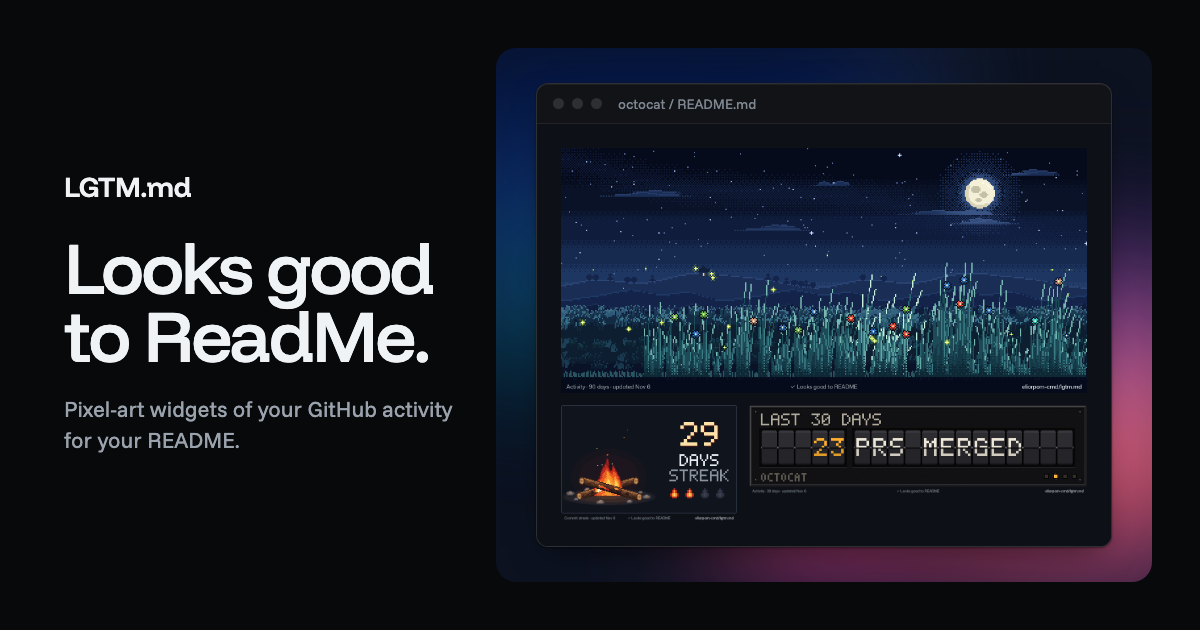
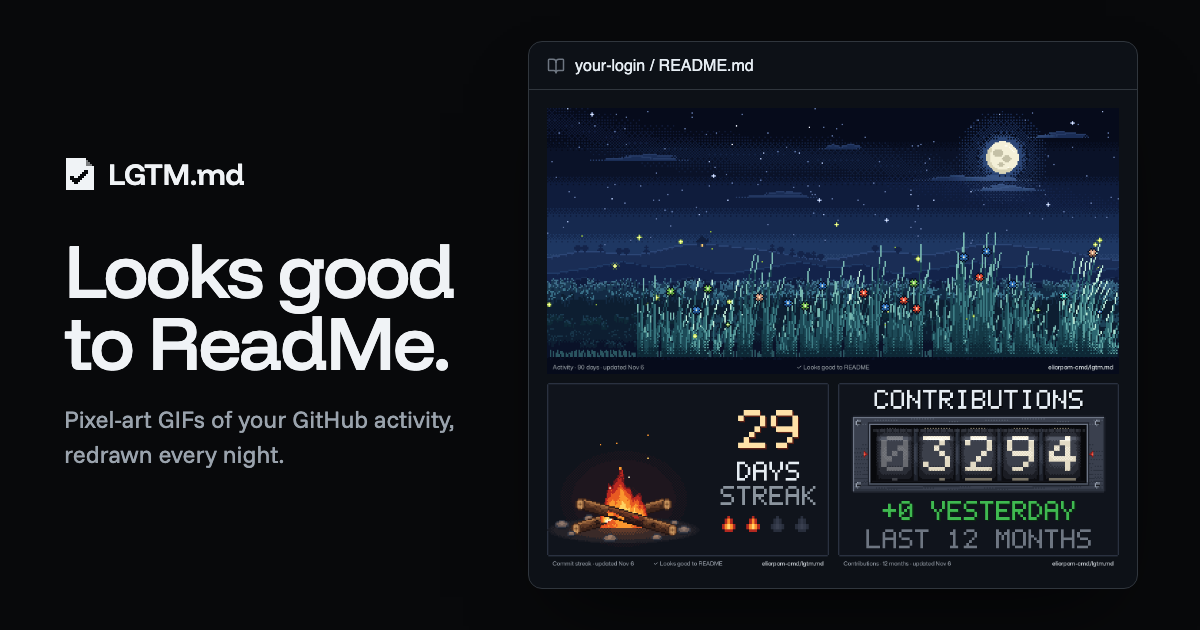
Launch page v7: mark on the success screen, new social image, Used by row from five profiles

Changed region(s): [[0.0308, 0.0603, 0.9867, 0.9349], [0.0308, 0.2413, 0.2158, 0.3317]]

diff --git a/site/index.html b/site/index.html
@@ -14,7 +14,7 @@
 <meta property="og:image" content="https://lgtm.byelior.dev/og.png">
 <meta property="og:image:width" content="1200">
 <meta property="og:image:height" content="630">
-<meta property="og:image:alt" content="A README with three pixel-art widgets: a grass field, a campfire and a departures board">
+<meta property="og:image:alt" content="A README with three pixel-art widgets: a grass field, a campfire and an odometer">
 <meta name="twitter:card" content="summary_large_image">
 <meta name="twitter:title" content="LGTM.md · Looks good to ReadMe.">
 <meta name="twitter:description" content="Animated pixel-art widgets for your GitHub profile or project README, redrawn every night from your real activity.">
@@ -240,7 +240,7 @@
       </section>
 
       <section class="pane pane-done" data-pane="check" aria-labelledby="pane-check" hidden>
-        <div class="done-mark" aria-hidden="true"><svg class="icon" viewBox="0 0 24 24"><path d="M20 6 9 17l-5-5"/></svg></div>
+        <div class="done-mark" aria-hidden="true"><svg class="mark" viewBox="0 0 16 16" aria-hidden="true" shape-rendering="crispEdges"><path d="M1 0h10v4H1zM1 4h14v2H1zM1 6h9v1H1zM12 6h3v2h-3zM1 7h8v1H1zM1 8h7v1H1zM11 8h4v1h-4zM1 9h2v2H1zM5 9h2v1H5zM10 9h5v1h-5zM9 10h6v1H9zM1 11h3v1H1zM8 11h7v1H8zM1 12h4v1H1zM7 12h8v1H7zM1 13h14v3H1z"/><path class="mark-flap" d="M11 1h1v3h-1zM12 2h1v2h-1zM13 3h1v1h-1z"/></svg></div>
         <h3 class="pane-title" id="pane-check" tabindex="-1">Your widgets are on their way</h3>
         <p class="pane-help">The first run takes about a minute. Until then the images show as broken.</p>
         <div class="pane-actions">

diff --git a/site/app.js b/site/app.js
@@ -589,13 +589,14 @@ function setMode(mode) {
   update();
 }
 
-// Profiles that run LGTM.md, from wild.json: one round avatar each.
+// Profiles that run LGTM.md, from wild.json: one round avatar each. The row shows from five profiles.
+const USED_MIN = 5;
 async function renderUsed() {
   try {
     const res = await fetch("wild.json", { cache: "no-cache" });
     if (!res.ok) return;
     const list = (await res.json()).filter((e) => e && LOGIN_RE.test(e.login || "")).slice(0, 24);
-    if (!list.length) return;
+    if (list.length < USED_MIN) return;
     $("#used-list").innerHTML = list.map((e) => `<li><a href="https://github.com/${e.login}" target="_blank" rel="noopener" title="${e.login}" aria-label="${e.login} on GitHub"><img src="https://github.com/${e.login}.png?size=64" alt="" width="32" height="32" loading="lazy"></a></li>`).join("");
     $("#used").hidden = false;
   } catch { /* the row stays hidden */ }

diff --git a/site/style.css b/site/style.css
@@ -279,8 +279,9 @@ html.modal-open { overflow: hidden; }
 
 /* Step 6: done. */
 .pane-done { text-align: center; padding-top: var(--s-16); }
-.done-mark { width: 64px; height: 64px; margin: 0 auto var(--s-24); display: grid; place-items: center; border-radius: 50%; background: rgba(63, 185, 80, 0.12); color: var(--green); }
-.done-mark .icon { width: 32px; height: 32px; stroke-width: 2.5; }
+/* The brand mark in green: the README page is checked. 48 px keeps each grid pixel at 3 px. */
+.done-mark { width: 48px; height: 48px; margin: 0 auto var(--s-24); color: var(--green); }
+.done-mark .mark { width: 48px; height: 48px; }
 .pane-actions { display: grid; gap: var(--s-12); margin-top: var(--s-32); }
 .pane-done .more { text-align: left; }
 
